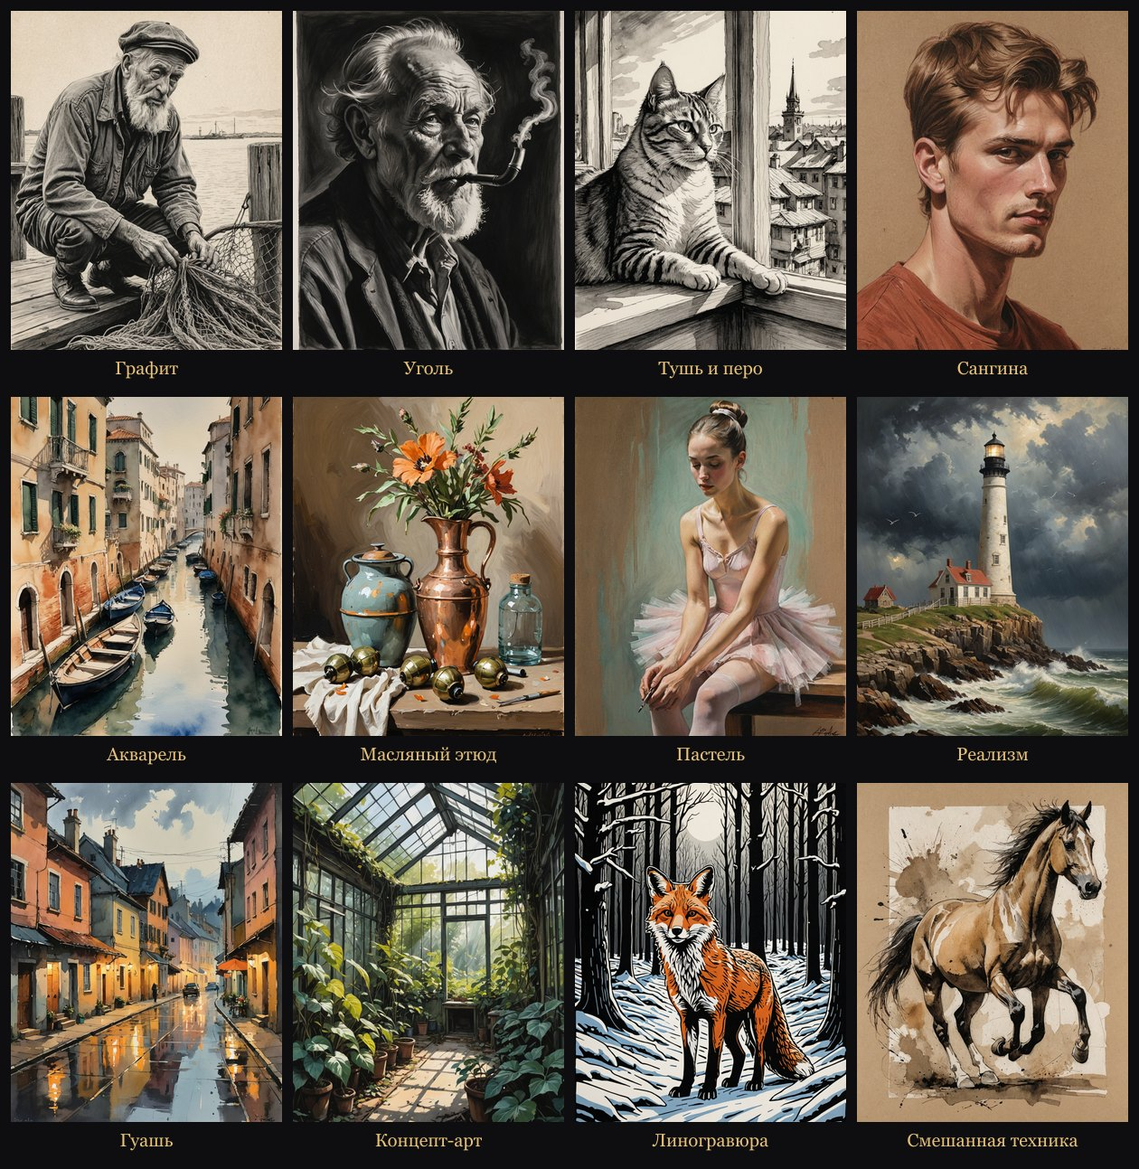
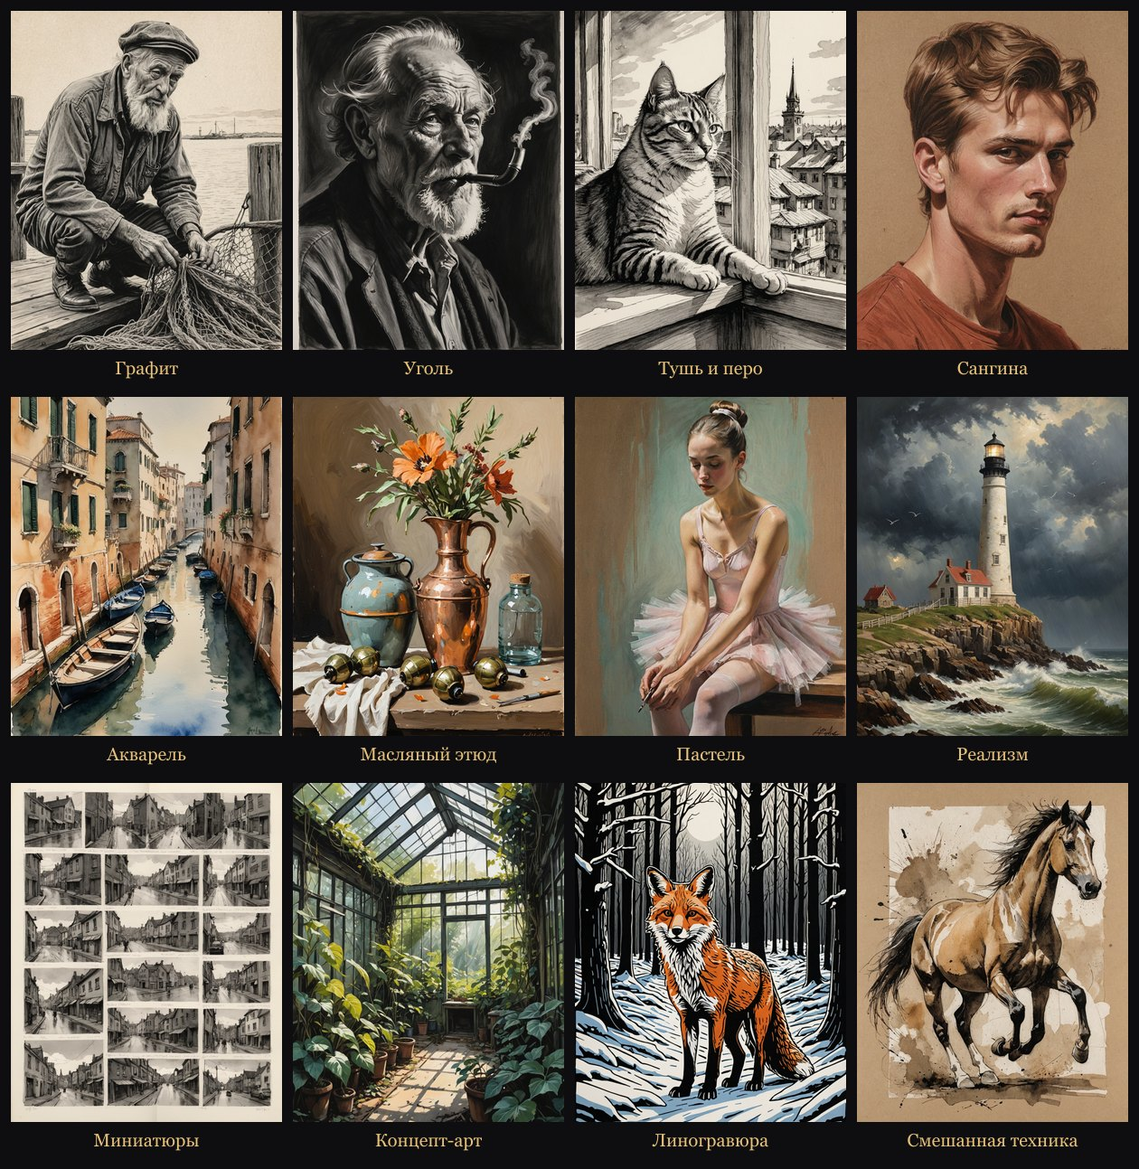
1.3.6: честные техники, точный перенос стиля, без гуаши
- STYLES: core — только материал/инструмент/основа, avoid — чужие материалы; вес техники w; для графики без светово-цветовых «красивостей»
- STYLIZE_TIERS по виду (drawing/painting); для монохромных техник без пула палитр
- стиль с картинок: style transfer precise + weightScale 0.6 (на большой силе не тащит содержимое)
- гуашь убрана (RETIRED → oil)

Changed region(s): [[0.0, 0.6497, 0.2476, 0.9899]]

diff --git a/prompt.js b/prompt.js
@@ -8,71 +8,78 @@
 //   --style id    пресет стиля (graphite, charcoal, ink, ...)
 //   --iw 0..2     вес референса (насколько держаться исходной картинки)
 
+// Техника — честная: только материал, инструмент и основа (бумага, холст).
+// avoid — чего в этой технике быть не может (карандаш без краски и мазков, тушь без серых растяжек…).
+// kind: drawing — графика (без «красивостей» про свет и цвет), painting — живопись. mono — без цвета.
 const STYLES = [
   { id: 'raw', name: 'Raw', hint: 'Без стиля — только ваш промпт', core: '' },
-  { id: 'graphite', name: 'Графит', hint: 'Карандашный штудийный рисунок',
-    core: 'graphite pencil sketch, expressive hatching and cross-hatching, visible construction lines, soft smudged tonal shading, on textured off-white drawing paper' },
-  { id: 'charcoal', name: 'Уголь', hint: 'Мощный тональный рисунок углём',
-    core: 'charcoal drawing, bold gestural strokes, deep velvety blacks, smudged edges and eraser highlights, raw energetic mark-making, on grainy paper' },
-  { id: 'ink', name: 'Тушь и перо', hint: 'Линия, штрих, пятно туши',
-    core: 'pen and ink drawing, confident calligraphic linework, ink wash and splatter, varied line weight, dynamic hatching, sumi ink on cream paper' },
-  { id: 'sanguine', name: 'Сангина', hint: 'Красный мел на тонированной бумаге',
-    core: 'sanguine red chalk drawing on toned paper, white chalk highlights, old master study, delicate contour lines, Renaissance sketchbook page' },
-  { id: 'watercolor', name: 'Акварель', hint: 'Лёгкий акварельный эскиз',
-    core: 'loose watercolor sketch, wet-on-wet blooms, transparent washes, pencil underdrawing showing through, granulating pigments, white of the paper left untouched' },
-  { id: 'gouache', name: 'Гуашь', hint: 'Плотный этюд гуашью',
-    core: 'gouache study, flat opaque color shapes, painterly brushwork, limited palette, simplified forms, matte finish, visible paper edges' },
-  { id: 'oil', name: 'Масляный этюд', hint: 'Alla prima, пастозный мазок',
-    core: 'alla prima oil sketch, thick impasto brushstrokes, palette knife marks, loose unfinished edges, plein air study, rich broken color' },
-  { id: 'pastel', name: 'Пастель', hint: 'Сухая пастель, мягкие переходы',
-    core: 'soft pastel drawing, chalky textured strokes, layered vibrant pigment, Degas-like mark-making, on colored pastel paper' },
-  { id: 'concept', name: 'Концепт-арт', hint: 'Скетч концепт-художника',
-    core: 'concept art sketch, loose painterly rendering, strong silhouette, atmospheric perspective, designer sketchbook, rough thumbnails energy' },
-  { id: 'marker', name: 'Маркеры', hint: 'Дизайнерский маркерный скетч',
-    core: 'alcohol marker rendering, fineliner contours, bold grey marker shading, quick industrial design sketch, crisp highlights with white gel pen' },
-  { id: 'notan', name: 'Нотан / тон', hint: 'Тоновое пятно, 2–3 значения',
-    core: 'notan value study, three-value composition, bold black white and mid grey shapes, abstracted masses, strong design of light and shadow' },
-  { id: 'thumbnail', name: 'Миниатюры', hint: 'Лист композиционных набросков',
-    core: 'sketchbook page of small composition thumbnails, quick tonal value sketches with framing boxes, artist notes, exploring layout variations' },
-  { id: 'linocut', name: 'Линогравюра', hint: 'Графика печати, резкий контраст',
-    core: 'linocut print, carved gouge marks, high contrast black and white, bold graphic shapes, hand-pulled printmaking texture' },
-  { id: 'mixed', name: 'Смешанная техника', hint: 'Коллаж, слои, фактура',
-    core: 'mixed media sketch, layered collage, graphite and acrylic, torn paper textures, scribbles and drips, experimental art journal page' },
-  { id: 'realism', name: 'Реализм', hint: 'Реалистичная живопись, живая кожа и свет',
+  { id: 'graphite', name: 'Графит', hint: 'Карандашный штудийный рисунок', kind: 'drawing', mono: true,
+    core: 'graphite pencil drawing, precise pencil lines, fine hatching and cross-hatching, graphite shading built from pencil strokes, on white drawing paper',
+    avoid: 'paint, painting, brush strokes, paint daubs, blotches, watercolor, gouache, oil paint, ink wash, color, colorful, smudged blobs, airbrush' },
+  { id: 'charcoal', name: 'Уголь', hint: 'Мощный тональный рисунок углём', kind: 'drawing', mono: true,
+    core: 'charcoal drawing, bold charcoal strokes, rich charcoal blacks, smudged charcoal tones, eraser highlights, on textured drawing paper',
+    avoid: 'paint, painting, brush strokes, paint daubs, watercolor, gouache, oil paint, color, colorful, digital painting, smooth airbrush gradients' },
+  { id: 'ink', name: 'Тушь и перо', hint: 'Линия, штрих, пятно туши', kind: 'drawing', mono: true,
+    core: 'pen and black ink drawing, confident ink linework, varied line weight, ink hatching, solid black ink areas, on white paper',
+    avoid: 'paint, painting, color, colorful, watercolor, gouache, oil paint, pencil shading, soft grey gradients, airbrush, blurry' },
+  { id: 'sanguine', name: 'Сангина', hint: 'Красный мел на тонированной бумаге', w: 1.4, kind: 'drawing',
+    core: 'monochrome sanguine drawing in red-brown chalk only, red chalk hatching, white chalk highlights, on warm toned paper, old master study',
+    avoid: 'paint, painting, brush strokes, oil paint, watercolor, gouache, full color, colorful, blue sky, green grass, digital painting' },
+  { id: 'watercolor', name: 'Акварель', hint: 'Лёгкий акварельный эскиз', kind: 'painting',
+    core: 'watercolor painting, transparent watercolor washes, wet-on-wet blooms, soft bleeding edges, light pencil underdrawing, white of the paper left untouched, on cold press watercolor paper',
+    avoid: 'oil paint, impasto, thick opaque paint, gouache, acrylic, digital painting, heavy black outlines' },
+  { id: 'oil', name: 'Масляный этюд', hint: 'Alla prima, пастозный мазок', w: 1.6, kind: 'painting',
+    core: 'thick impasto oil painting, heavy visible brushstrokes, palette knife marks, alla prima, oil paint texture on canvas',
+    avoid: 'watercolor, pencil drawing, line art, flat colors, smooth digital painting, airbrush, fine detail, photorealistic' },
+  { id: 'pastel', name: 'Пастель', hint: 'Сухая пастель, мягкие переходы', w: 1.6, kind: 'painting',
+    core: 'soft pastel drawing, chalky grainy pastel strokes, pastel sticks marks, paper texture showing through, on colored pastel paper',
+    avoid: 'oil paint, glossy paint, watercolor washes, ink lines, smooth digital painting, airbrush, photorealistic' },
+  { id: 'concept', name: 'Концепт-арт', hint: 'Скетч концепт-художника', kind: 'painting',
+    core: 'concept art sketch, loose digital painting, strong silhouette, clear value structure, designer sketchbook',
+    avoid: '' },
+  { id: 'marker', name: 'Маркеры', hint: 'Дизайнерский маркерный скетч', w: 1.45, kind: 'drawing',
+    core: 'quick marker sketch, copic alcohol markers, streaky visible marker strokes, black fineliner outlines, white paper left blank around the drawing, limited grey tones with one accent color',
+    avoid: 'oil paint, watercolor, painterly, digital painting, full background painting, sky gradient, photorealistic, soft shading' },
+  { id: 'notan', name: 'Нотан / тон', hint: 'Тоновое пятно, 2–3 значения', w: 1.45, kind: 'drawing', mono: true,
+    core: 'notan, flat graphic shapes in pure black white and one mid grey, three flat tones only, no gradients, bold abstracted masses',
+    avoid: 'color, colorful, gradients, shading, hatching, texture, fine details, realistic rendering, brush strokes' },
+  { id: 'thumbnail', name: 'Миниатюры', hint: 'Лист композиционных набросков', kind: 'drawing', mono: true,
+    core: 'sketchbook page of small composition thumbnails, quick grey tonal sketches inside framing boxes, artist notes, layout variations',
+    avoid: 'color, colorful, single finished painting, detailed rendering' },
+  { id: 'linocut', name: 'Линогравюра', hint: 'Графика печати, резкий контраст', kind: 'drawing', mono: true,
+    core: 'linocut print, carved gouge marks, high contrast black and white, bold graphic shapes, printmaking texture',
+    avoid: 'color, grey gradients, soft shading, pencil, watercolor, paint, brush strokes' },
+  { id: 'mixed', name: 'Смешанная техника', hint: 'Коллаж, слои, фактура', kind: 'painting',
+    core: 'mixed media artwork, layered collage, graphite and acrylic, torn paper textures, scribbles and drips, art journal page',
+    avoid: '' },
+  { id: 'realism', name: 'Реализм', hint: 'Реалистичная живопись, живая кожа и свет', kind: 'painting', drawn: false,
     core: 'realistic oil painting, lifelike natural skin tones, subtle realistic lighting, accurate anatomy and proportions, fine detailed rendering, academic realism, depth of field',
-    drawn: false,
     negative: 'pencil sketch, drawing, line art, lineart, graphite, charcoal, cartoon, anime, comic, illustration, flat colors, sketchy lines, monochrome, watermark, signature, text, logo, lowres, blurry, deformed, bad anatomy, extra fingers' },
 ];
 
-// stylize — «эстетический слой» в духе Midjourney (накопительно).
-// Признаки фирменного вида MJ: гармоничная ограниченная палитра, кинематографичный свет,
-// атмосферная глубина, выразительная композиция с ясным центром внимания,
-// проработанный фокус и свободные, «растворяющиеся» края, богатая фактура.
-// Общий слой — нейтральный для любой картины (без слов про рисунок, иначе Raw/реализм уходят в карандаш)
-const STYLIZE_TIERS = [
-  [25, 'artful composition with a clear focal point'],
-  [75, 'harmonious color palette, atmospheric depth, beautiful soft light'],
-  [100, 'rich detail, tactile textures'],
-  [200, 'expressive light and shadow, dramatic lighting'],
-  [350, 'evocative mood, poetic storytelling, fine art masterpiece'],
-  [550, 'breathtaking artistic vision, museum quality, sublime atmosphere'],
-  [800, 'highly stylized visionary interpretation, dreamlike grandeur'],
-];
-
-// Дополнительный слой только для рисовальных техник (графит, уголь, тушь…)
-const DRAWN_TIERS = [
-  [100, 'detailed focal area dissolving into loose expressive edges, elegant negative space'],
-  [200, 'masterful draftsmanship, strong value design'],
-];
+// stylize — «художественность» (накопительно). Только то, что не спорит с техникой:
+// живописи можно про свет и настроение, графике — только композиция и уверенная рука.
+const STYLIZE_TIERS = {
+  painting: [
+    [25, 'artful composition with a clear focal point'],
+    [350, 'expressive light and shadow'],
+    [600, 'bold artistic interpretation'],
+  ],
+  drawing: [
+    [25, 'artful composition with a clear focal point'],
+    [150, 'confident draftsmanship, strong value design'],
+    [350, 'expressive mark-making, elegant negative space'],
+  ],
+};
 
 // chaos: случайные модификаторы для каждого из вариантов
 const CHAOS_POOLS = [
   ['dramatic low angle', 'bird\'s eye view', 'tight close-up crop', 'wide panoramic composition', 'asymmetric off-center composition', 'strong diagonal composition', 'figure small in vast space', 'frontal symmetric composition'],
   ['backlit silhouette', 'harsh side light', 'soft diffused light', 'rim light', 'moody twilight', 'single candle light', 'overcast flat light', 'golden hour glow'],
   ['melancholic mood', 'restless energy', 'quiet contemplation', 'tension and suspense', 'dreamy calm', 'joyful movement', 'solemn monumentality'],
-  ['muted earth palette', 'monochrome sepia', 'cold blue greys', 'warm ochres and siennas', 'single accent of red', 'complementary orange and teal', 'desaturated greens'],
-  ['very loose and fast', 'meticulous and precise', 'fragmented unfinished edges', 'rhythmic repeating strokes', 'heavy texture'],
+  ['muted earth palette', 'cold blue greys', 'warm ochres and siennas', 'single accent of red', 'complementary orange and teal', 'desaturated greens'],
 ];
+const PALETTE_POOL = 3; // номер пула палитр — монохромным техникам не подходит
 
 const WEIRD_POOL = [
   'surreal dreamlike distortion', 'unexpected juxtaposition', 'impossible architecture', 'elongated mannerist proportions',
@@ -106,6 +113,9 @@ const GUARDS = [
     pos: '', neg: '(text:1.3), letters, words, writing, caption, signature, watermark, logo, numbers' },
 ];
 
+// убранные техники → ближайшая (старые работы и сохранённые настройки не ломаются)
+const RETIRED = { gouache: 'oil' };
+
 function mulberry32(a) {
   return function () {
     a |= 0; a = (a + 0x6d2b79f5) | 0;
@@ -119,16 +129,14 @@ function pick(rng, arr) { return arr[Math.floor(rng() * arr.length)]; }
 
 function buildPrompts({ subject, style = 'graphite', stylize = 100, chaos = 0, weird = 0, no = '', seed = 0, count = 4, guards = [] }) {
   const gs = GUARDS.filter((g) => (guards || []).includes(g.id));
-  const st = STYLES.find((s) => s.id === style) || STYLES[0];
+  const st = STYLES.find((s) => s.id === (RETIRED[style] || style)) || STYLES[0];
   // «Без стиля» — только текст художника: никаких своих добавок (красивостей, разнообразия, странности)
   if (st.id === 'raw') { stylize = 0; chaos = 0; weird = 0; }
   // Техника — в начало и с повышенным весом: иначе модели скатываются в фото
   const [medium, ...details] = st.core.split(', ');
-  const base = st.core ? [`(${medium}:1.3) of ${subject.trim()}`, details.join(', ')] : [subject.trim()];
-  const drawn = st.core && st.drawn !== false;
-  for (const [t, text] of STYLIZE_TIERS) if (stylize >= t) base.push(text);
-  if (drawn) for (const [t, text] of DRAWN_TIERS) if (stylize >= t) base.push(text);
-  if (drawn) base.push('(hand-drawn traditional artwork:1.2)');
+  const base = st.core ? [`(${medium}:${st.w || 1.3}) of ${subject.trim()}`, details.join(', ')] : [subject.trim()];
+  for (const [t, text] of STYLIZE_TIERS[st.kind] || []) if (stylize >= t) base.push(text);
+  if (st.core && st.drawn !== false) base.push('(hand-drawn traditional artwork:1.2)');
   for (const g of gs) if (g.pos) base.push(g.pos);
 
   const prompts = [];
@@ -136,7 +144,7 @@ function buildPrompts({ subject, style = 'graphite', stylize = 100, chaos = 0, w
     const rng = mulberry32(seed * 31 + i * 7919 + 1);
     const parts = [...base];
     const nChaos = Math.ceil((chaos / 100) * CHAOS_POOLS.length);
-    const pools = [...CHAOS_POOLS].sort(() => rng() - 0.5).slice(0, nChaos);
+    const pools = CHAOS_POOLS.filter((_, k) => !(st.mono && k === PALETTE_POOL)).sort(() => rng() - 0.5).slice(0, nChaos);
     for (const pool of pools) if (rng() < 0.35 + chaos / 150) parts.push(pick(rng, pool));
     const nWeird = weird > 0 ? Math.min(4, Math.ceil(weird / 750)) : 0;
     const used = new Set();
@@ -147,7 +155,7 @@ function buildPrompts({ subject, style = 'graphite', stylize = 100, chaos = 0, w
     prompts.push(parts.filter(Boolean).join(', '));
   }
 
-  const baseNeg = style === 'raw' ? '' : st.negative || DEFAULT_NEGATIVE;
+  const baseNeg = style === 'raw' ? '' : [st.negative || DEFAULT_NEGATIVE, st.avoid].filter(Boolean).join(', ');
   const negative = [baseNeg, ...gs.map((g) => g.neg), no].filter((x) => x && x.trim()).join(', ');
   return { prompts, negative };
 }

diff --git a/server.js b/server.js
@@ -240,7 +240,9 @@ async function createImagine({ prompt, params, ref, variation, styles = [], cont
     };
   }
   job.styleWeights = styles.slice(0, 3).map((st) => st.w);
-  const sw = Number.isFinite(+p.sw) ? Math.max(0, Math.min(2, +p.sw)) : 1;
+  const sw0 = Number.isFinite(+p.sw) ? Math.max(0, Math.min(2, +p.sw)) : 1;
+  // ползунок 0…2 → реальная сила: выше ~1.2 стиль с картинок начинает тащить содержимое образца и «перемазывать» технику (проверено)
+  const sw = sw0 * (edition.styleRef?.weightScale ?? 1);
 
   let refName = null;
   let styleNames = null;

diff --git a/public/app.js b/public/app.js
@@ -171,6 +171,7 @@ const LEVELS = {
 
 function syncControls() {
   const p = state.params;
+  if (state.styles.length && !state.styles.some((st) => st.id === p.style)) p.style = p.style === 'gouache' ? 'oil' : 'graphite'; // техника убрана
   $('#style').value = p.style;
   $$('#formatSeg button').forEach((b) => b.classList.toggle('on', b.dataset.ar === p.ar));
   $$('#countSeg button').forEach((b) => b.classList.toggle('on', +b.dataset.v === +p.count));

diff --git a/CHANGELOG.md b/CHANGELOG.md
@@ -1,5 +1,11 @@
 # История версий Arto
 
+## 1.3.6
+- Техники стали честными: карандаш — это карандаш (штрих, без пятен и мазков), тушь — линия и пятно, сангина — одноцветный красный мел. Arto больше не добавляет к графике слова про «красивый свет и палитру», а каждой технике запрещает чужие материалы
+- Масло, пастель и акварель лучше отличаются друг от друга
+- Гуашь убрана: почти не отличалась от масла. Сохранённые настройки с гуашью переключатся на масло
+- Стиль с картинок больше не тащит в картинку содержимое образца и не «перемазывает» технику даже на большой силе
+
 ## 1.3.5
 - Больше никаких окон «Переключить на Реализм?» и «Сделать серию?»: Arto сразу рисует с вашими настройками, а подсказка появляется небольшой плашкой
 

diff --git a/README.md b/README.md
@@ -23,11 +23,11 @@
 Интернет нужен только один раз — чтобы установить. Потом Arto работает полностью офлайн:
 ваши картинки никуда не уходят, никаких фильтров, лимитов и платы за генерации.
 
-## 🎨 Шестнадцать техник
+## 🎨 Пятнадцать техник
 
 <p align="center"><img src="docs/gallery.jpg" alt="Техники Arto" width="100%"></p>
 
-Графит, уголь, тушь и перо, сангина, акварель, гуашь, масляный этюд, пастель, концепт-арт, маркеры,
+Графит, уголь, тушь и перо, сангина, акварель, масляный этюд, пастель, концепт-арт, маркеры,
 нотан, листы миниатюр, линогравюра, смешанная техника, реализм — или «без стиля», строго по вашему описанию.
 
 ## ✨ Чего нет у других
